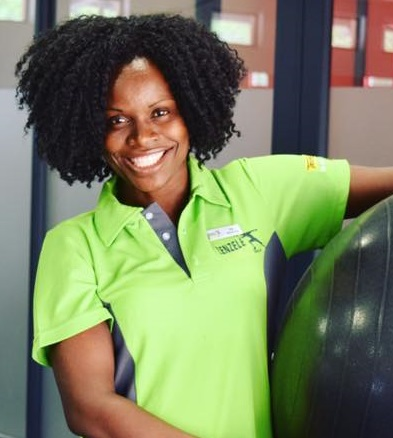
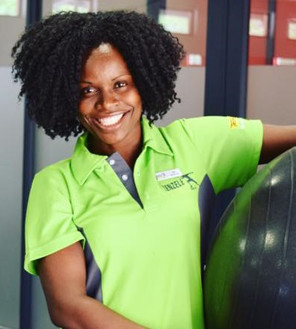
switched gallery preview to thumbnails

diff --git a/index.html b/index.html
@@ -515,42 +515,42 @@
 						<div class=" grid-item">
 							<!--Portfolio item-->
 							<article class="vlt-work vlt-work--style-2">
-								<div class="vlt-work__media"><a class="vlt-work__link has-cursor" href="assets/img/portfolio/masonry/img_gallery_1.jpg"></a><img src="assets/img/portfolio/masonry/img_gallery_1.jpg" alt="" loading="lazy">
+								<div class="vlt-work__media"><a class="vlt-work__link has-cursor" href="assets/img/portfolio/masonry/img_gallery_1.jpg"></a><img src="assets/img/portfolio/masonry/img_gallery_1_thumb.jpg" alt="" loading="lazy">
 								</div>
 							</article>
 						</div>
 						<div class=" grid-item">
 							<!--Portfolio item-->
 							<article class="vlt-work vlt-work--style-2">
-								<div class="vlt-work__media"><a class="vlt-work__link has-cursor" href="assets/img/portfolio/masonry/img_gallery_2.jpg"></a><img src="assets/img/portfolio/masonry/img_gallery_2.jpg" alt="" loading="lazy">
+								<div class="vlt-work__media"><a class="vlt-work__link has-cursor" href="assets/img/portfolio/masonry/img_gallery_2.jpg"></a><img src="assets/img/portfolio/masonry/img_gallery_2_thumb.jpg" alt="" loading="lazy">
 								</div>
 							</article>
 						</div>
 						<div class=" grid-item">
 							<!--Portfolio item-->
 							<article class="vlt-work vlt-work--style-2">
-								<div class="vlt-work__media"><a class="vlt-work__link has-cursor" href="assets/img/portfolio/masonry/img_gallery_3.jpg"></a><img src="assets/img/portfolio/masonry/img_gallery_3.jpg" alt="" loading="lazy">
+								<div class="vlt-work__media"><a class="vlt-work__link has-cursor" href="assets/img/portfolio/masonry/img_gallery_3.jpg"></a><img src="assets/img/portfolio/masonry/img_gallery_3_thumb.jpg" alt="" loading="lazy">
 								</div>
 							</article>
 						</div>
 						<div class=" grid-item">
 							<!--Portfolio item-->
 							<article class="vlt-work vlt-work--style-2">
-								<div class="vlt-work__media"><a class="vlt-work__link has-cursor" href="assets/img/portfolio/masonry/img_gallery_4.jpg"></a><img src="assets/img/portfolio/masonry/img_gallery_4.jpg" alt="" loading="lazy">
+								<div class="vlt-work__media"><a class="vlt-work__link has-cursor" href="assets/img/portfolio/masonry/img_gallery_4.jpg"></a><img src="assets/img/portfolio/masonry/img_gallery_4_thumb.jpg" alt="" loading="lazy">
 								</div>
 							</article>
 						</div>
 						<div class=" grid-item">
 							<!--Portfolio item-->
 							<article class="vlt-work vlt-work--style-2">
-								<div class="vlt-work__media"><a class="vlt-work__link has-cursor" href="assets/img/portfolio/masonry/img_gallery_5.jpg"></a><img src="assets/img/portfolio/masonry/img_gallery_5.jpg" alt="" loading="lazy">
+								<div class="vlt-work__media"><a class="vlt-work__link has-cursor" href="assets/img/portfolio/masonry/img_gallery_5.jpg"></a><img src="assets/img/portfolio/masonry/img_gallery_5_thumb.jpg" alt="" loading="lazy">
 								</div>
 							</article>
 						</div>
 						<div class=" grid-item">
 							<!--Portfolio item-->
 							<article class="vlt-work vlt-work--style-2">
-								<div class="vlt-work__media"><a class="vlt-work__link has-cursor" href="assets/img/portfolio/masonry/img_gallery_6.jpg"></a><img src="assets/img/portfolio/masonry/img_gallery_6.jpg" alt="" loading="lazy">
+								<div class="vlt-work__media"><a class="vlt-work__link has-cursor" href="assets/img/portfolio/masonry/img_gallery_6.jpg"></a><img src="assets/img/portfolio/masonry/img_gallery_6_thumb.jpg" alt="" loading="lazy">
 								</div>
 							</article>
 						</div>
